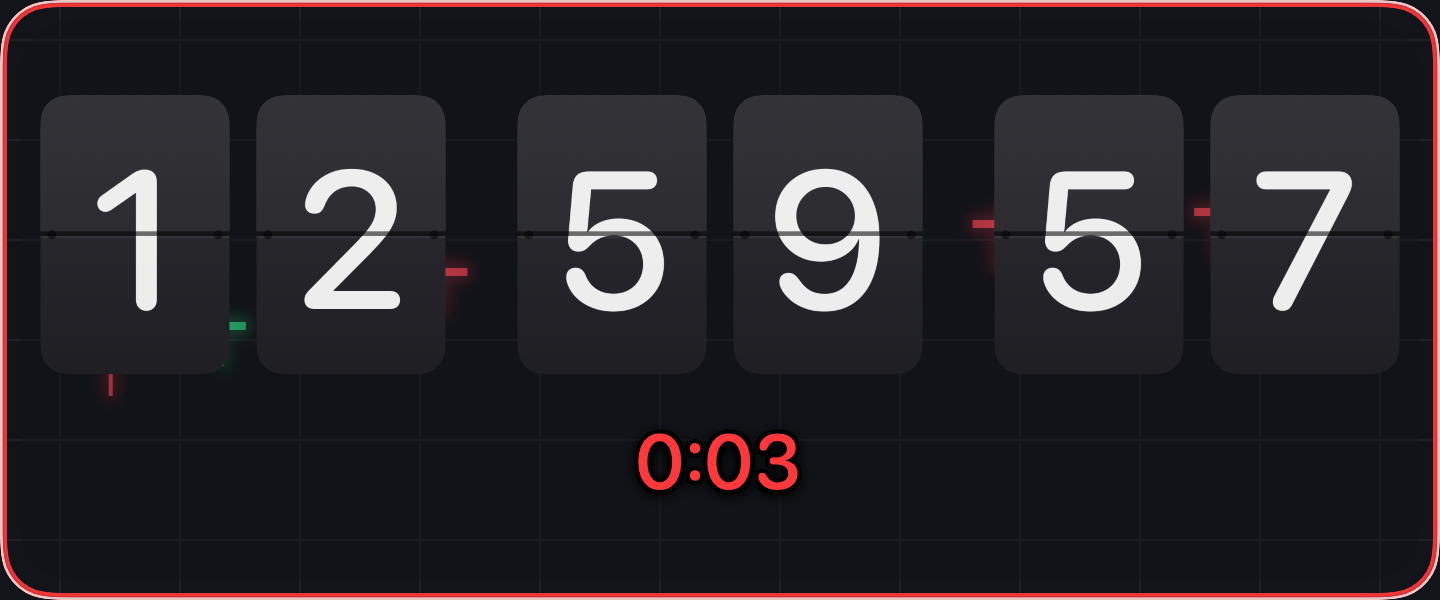
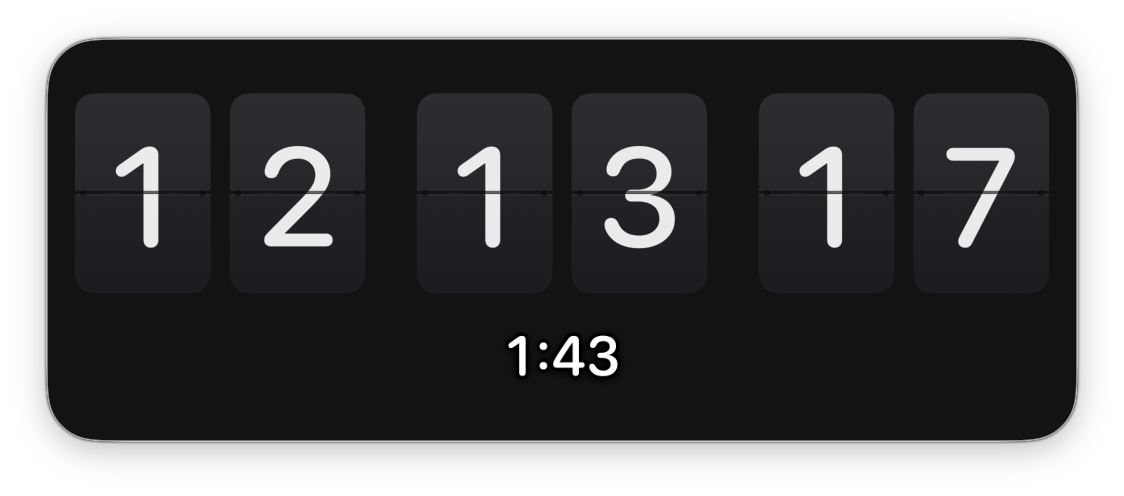
docs: replace rendered UI preview with a real app screenshot

diff --git a/README.md b/README.md
@@ -17,7 +17,7 @@
 ```
 
 ![TradingClock 悬浮在 K 线图上，收盘前 3 秒红色警示](docs/images/app-screenshot.png)
-*收盘前 3 秒的红色警示状态（由真实 UI 组件离屏渲染）：翻页时钟 + 倒计时 + 整圈警示环，背后 K 线透过玻璃可见。*
+*实机截图：收盘前 3 秒的红色警示状态——翻页时钟 + 倒计时 + 整圈警示环，背后 K 线透过玻璃可见。*
 
 ## 目录
 
